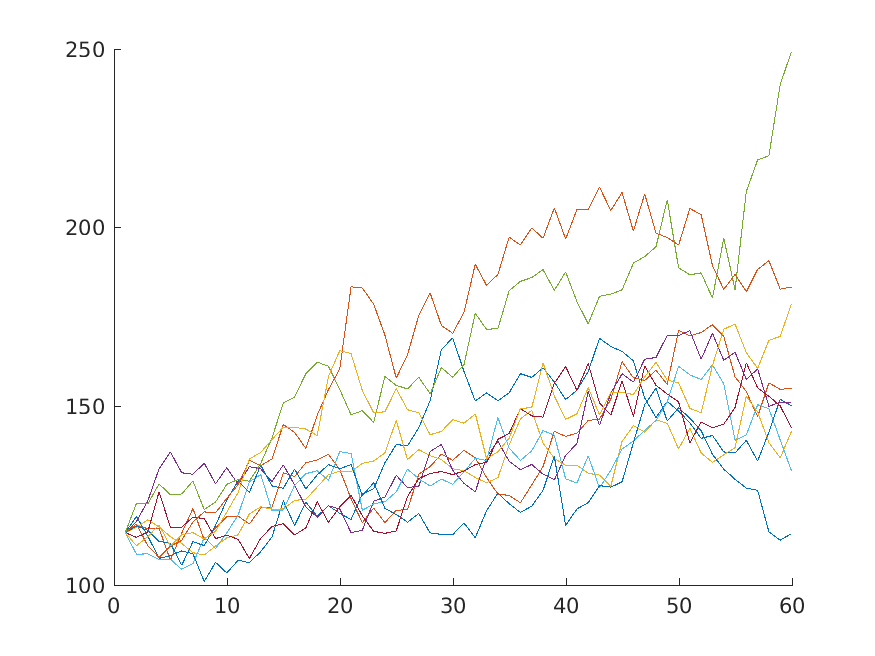
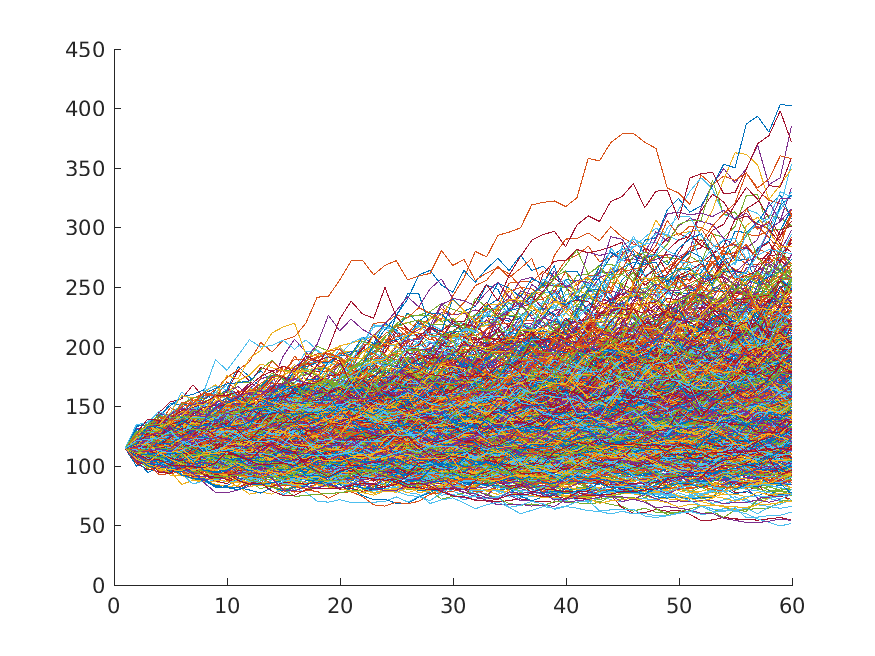
added last simulation functions for funds

diff --git a/1/test.m b/1/test.m
@@ -1,19 +1,79 @@
 % functies testen
 
-% overschrijven van beleggersrekening naar ( beurgenoteerd fonds | investering | pensioenspaarfonds )
+close all
+format bank
 
-% op de eerste dag van elk kwartaal geld storten op de beleggersrekening
-%   1e kwartaal: 01/01 - 31/03
-... 2e kwartaal: 01/04 - 30/06
-... 3e kwartaal: 01/07 - 30/09
-... 4e kwartaal: 01/10 - 31/12
-% binnen een jaar elk kwartaal hetzelfde bedrag
-% elk jaar verhoging van 2%
+investedCapital = SN_investedCapital(1000, 40);
 
-%SN_investedCapital(1000, 1)
-%SN_investedCapital(1000, 2)
-%SN_investedCapital(1000, 3)
-%SN_investedCapital(1000, 4)
-%SN_investedCapital(1000, 5)
+[~, ~] = SN_simulateSaving(1000, 0.01, 4);
+[~, ~] = SN_simulateSaving(1000, 0.01, 5);
+[~, ~] = SN_simulateSaving(1000, 0.01, 12);
+[path, yield] = SN_simulateSaving(1000, 0.01, 40);
 
-[path deposited yield] = SN_simulateSaving(1000, 0.01, 5)
+load('Funds.mat')
+[mu, sigma] = SN_estimateParameters(S(:,1));
+
+fig1 = figure(1); % quarterly path
+title('SN\_simulateQuarterlyPath(38.2919, 0.0062281, 0.0436201, 40)')
+
+fig2 = figure(2); % fund investment path
+title('SN\_simulateFundInvestingPath(1000, pricePath, 40)')
+
+fig3 = figure(3); % pension fund investment path
+title('SN\_simulatePensionFundInvesting(1000, pricePath, 40)')
+
+yields1 = zeros(25, 1);
+yields2 = zeros(25, 1);
+
+for i = 1:25
+    set(0, 'CurrentFigure', fig1)
+    hold on;
+    pricePath = SN_simulateQuarterlyPath(S(1, 1), mu, sigma, 40);
+    plot(pricePath);
+    
+    set(0, 'CurrentFigure', fig2)
+    hold on;
+    [path, yield] = SN_simulateFundInvestingPath(1000, pricePath, 40);
+    yields1(i) = yield;
+    plot(path);
+    
+    set(0, 'CurrentFigure', fig3)
+    hold on;
+    [path, yield] = SN_simulatePensionFundInvestingPath(1000, pricePath, 40);
+    yields2(i) = yield;
+    plot(path);
+end
+
+set(0, 'CurrentFigure', fig1)
+refline(0, S(1, 1));
+set(0, 'CurrentFigure', fig2)
+refline(0, investedCapital);
+set(0, 'CurrentFigure', fig3)
+refline(0, investedCapital);
+saveas(fig1, 'SN_simulateQuarterlyPath.png');
+saveas(fig2, 'SN_simulateFundInvestingPath.png');
+saveas(fig2, 'SN_simulatePensionFundInvestingPath.png');
+
+'VTI Fund Investing';
+for i = 20:20:160
+    %yields = SN_simulateFundInvesting(1000, i, S(:,1), 20);
+    [mean(yields) min(yields) max(yields)];
+end
+
+'BNP Fund Investing';
+for i = 20:20:160
+    %yields = SN_simulateFundInvesting(1000, i, S(:,2), 20);
+    [mean(yields) min(yields) max(yields)];
+end
+
+'VTI Pension Investing';
+for i = 20:20:160
+    yields = SN_simulatePensionFundInvesting(1000, i, S(:,1), 20);
+    [mean(yields) min(yields) max(yields)]
+end
+
+'BNP Pension Investing';
+for i = 20:20:160
+    yields = SN_simulatePensionFundInvesting(1000, i, S(:,2), 20);
+    [mean(yields) min(yields) max(yields)]
+end

diff --git a/1/SN_simulateFundInvestingPath.m b/1/SN_simulateFundInvestingPath.m
@@ -1,7 +1,39 @@
 function [ path, yield ] = SN_simulateFundInvestingPath( budget, pricePath, quartals)
-%UNTITLED4 Summary of this function goes here
-%   Detailed explanation goes here
+% Simulate the path of a distribution fund
+% path = "de totale nettoinventariswaarde van alle fractionele aandelen"
+% during main calculation, path = amount of shares
+% after main calculation, path = total net worth of shares at each quartal
+    
+    investedCapital = SN_investedCapital(budget, quartals);
+    
+    transactionCosts = 10;     % 10 euros
+    stockMarketTax = 0.0027;   % 0.27%
+    dividendYield = 0.0195;    % 1.95%
+    dividendTax = (1-0.15) * (1-0.30); % 15% bronbelasting & 30% roerende voorheffing
+    dividendYieldNet = dividendYield * dividendTax;   % 1.16%
+    quarterlyDividentYieldNet = dividendYieldNet / 4; % 0.29%
+    
+    path = (budget-transactionCosts) * (1-stockMarketTax) / pricePath(1);
+     
+    for q = 2:quartals
+        % each quartal, receive dividents on last quartal
+        dividend = pricePath(q-1) * quarterlyDividentYieldNet; 
+        
+        % calculate net budget to buy shares
+        budgetNet = (budget-transactionCosts) * (1-stockMarketTax);
+        
+        % buy new shares with net budget and dividend ("Dit ganse bedrag wordt dan
+        % onmiddellijk opnieuw geinvesteerd in VTI-aandelen.")
+        path(q) = path(q-1) + (dividend + budgetNet) / pricePath(q);
+        
+        % budget increases with 2% each year
+        if mod(q, 4) == 0
+            budget = budget * 1.02;
+        end
+    end
 
+    path = path .* pricePath; % convert shares into the money they are worth
+    yield = (path(end) - investedCapital) / investedCapital;
 
 end
 

diff --git a/1/SN_simulateSaving.m b/1/SN_simulateSaving.m
@@ -1,25 +1,27 @@
 function [ path, yield ] = SN_simulateSaving(budget, rate, quartals)
-%UNTITLED2 Summary of this function goes here
-%   Detailed explanation goes here
+% Simulates the path of a savings account with given start budget and interest rate after a given amount of quartals
 
+    investedCapital = SN_investedCapital(budget, quartals);
     path = budget;
-    deposited = budget;
+    %deposited = budget;
     tax = 0.15;
     
-    for i = 2:quartals
-        path(i) = path(i-1) + budget;
-        deposited(i) = budget;
+    for q = 2:quartals
+        path(q) = path(q-1) + budget;
+        %deposited(q) = budget;
         
-        if i > 4
-            path(i) = path(i) + (deposited(i-4)*rate);
+        if q > 4
+            %path(i) = path(i) + (deposited(i-4)*rate);
+            path(q) = path(q) + (path(q-4)*rate);
         end
         
-        if mod(i, 4) == 0
+        if mod(q, 4) == 0
             budget = budget * 1.02;
         end
     end
 
-    yield = (path(end) - sum(deposited)) / sum(deposited);
+    %yield = (path(end) - sum(deposited)) / sum(deposited);
+    yield = (path(end) - investedCapital) / investedCapital;
     
 end
 

diff --git a/1/SN_simulatePensionFundInvesting.m b/1/SN_simulatePensionFundInvesting.m
@@ -1,7 +1,17 @@
 function [ yields ] = SN_simulatePensionFundInvesting(budget, quartals, historicalPrice, N)
-%UNTITLED7 Summary of this function goes here
-%   Detailed explanation goes here
+% Monte Carlo simulation of periodical investments in a pension fund  
 
-
+    % estimate parameters of evolution of fund worth
+    [mu, sigma] = SN_estimateParameters(historicalPrice);
+    yields = zeros(N, 1);
+    
+    for q = 1:N
+        % simulate path for worth of fund
+        pricePath = SN_simulateQuarterlyPath(historicalPrice(end), mu, sigma, quartals);
+        
+        % simulate yield of investing in the fund
+        [~, yield] = SN_simulatePensionFundInvestingPath(budget, pricePath, quartals);
+        
+        yields(q) = yield;
+    end
 end
-

diff --git a/1/SN_simulateFundInvesting.m b/1/SN_simulateFundInvesting.m
@@ -1,7 +1,18 @@
 function [ yields ] = SN_simulateFundInvesting(budget, quartals, historicalPrice, N)
-%UNTITLED5 Summary of this function goes here
-%   Detailed explanation goes here
+% Monte Carlo simulation of periodical investments in a fund  
 
-
+    % estimate parameters of evolution of fund worth
+    [mu, sigma] = SN_estimateParameters(historicalPrice);
+    yields = zeros(N, 1);
+    
+    for q = 1:N
+        % simulate path for worth of fund
+        pricePath = SN_simulateQuarterlyPath(historicalPrice(end), mu, sigma, quartals);
+        
+        % simulate yield of investing in the fund
+        [~, yield] = SN_simulateFundInvestingPath(budget, pricePath, quartals);
+        
+        yields(q) = yield;
+    end
 end
 

diff --git a/1/ex4.m b/1/ex4.m
@@ -7,13 +7,13 @@ load('Funds.mat')
 length = 60; % 60 months
 initialPrice = 114.55; % taken from http://www.morningstar.com/stocks/ARCX/VTI/quote.html
 
-fig = figure
-hold on
+fig = figure;
+hold on;
 for i = 1:10
     path = SN_simulatePath(initialPrice, mu, sigma, length);
-    plot(path)
+    plot(path);
 end
-hold off
-saveas(fig,  'ex5.png')
+hold off;
+saveas(fig,  'ex5.png');
 
 clear

diff --git a/1/SN_estimateParameters.m b/1/SN_estimateParameters.m
@@ -1,7 +1,7 @@
 function [ mu, sigma ] = SN_estimateParameters( s )
-%SN_estimateParameters estimates parameters of log-yields of given price evolution vector
+% estimates parameters of log-yields of given price evolution vector
 
-    x = SN_logYields(s);
+    x = logYields(s);
                     
     sigma = std(x); 
     % de standaardafwijking van de log-rendementen is een 

diff --git a/1/SN_simulateQuarterlyPath.m b/1/SN_simulateQuarterlyPath.m
@@ -1,7 +1,9 @@
 function [ path ] = SN_simulateQuarterlyPath(price, mu, sigma, quartals)
-%UNTITLED3 Summary of this function goes here
-%   Detailed explanation goes here
-
-
+% Simulate the path of the worth of a fund for a given amount of quartals
+    path = price;
+    
+    for i = 2:quartals
+        path(i) = brownianMove(path(i-1), mu, sigma, 3);
+    end
 end
 

diff --git a/1/SN_simulatePath.m b/1/SN_simulatePath.m
@@ -1,8 +1,8 @@
 function [path] = SN_simulatePath(initialPrice, mu, sigma, months)
-%SN_SIMULATEPATH Simulate a Brownian motion
+% Simulate a Brownian motion
 
     path = initialPrice;
     for t = 2:months
-        path(t) = path(t-1) * exp(mu - sigma * (0.5*sigma + normrnd(0, 1)));
+        path(t) = brownianMove(path(t-1), mu, sigma, 1);
     end
 end

diff --git a/1/brownianMove.m b/1/brownianMove.m
@@ -1,0 +1,10 @@
+function [ next_price ] = brownianMove( current_price, mu, sigma, t )
+% Simulate the brownian movement for t months
+
+    if nargin < 4
+        t = 1;
+    end
+                             
+    next_price = current_price * exp((mu - 0.5*sigma^2)*t + sigma*sqrt(t)*normrnd(0,1));
+end
+

diff --git a/1/ex5.m b/1/ex5.m
@@ -3,7 +3,7 @@
 close all
 load('Funds.mat')
 
-[f1, x1] = ecdf(SN_logYields(S(:, 1)));
+[f1, x1] = ecdf(logYields(S(:, 1)));
 
 [mu, sigma] = SN_estimateParameters(S(:, 1));
 [f2, x2] = ecdf(normrnd(mu - 0.5 * sigma^2, sigma^2, length(S(:, 1)), 1));

diff --git a/1/SN_investedCapital.m b/1/SN_investedCapital.m
@@ -1,5 +1,5 @@
 function [ capital ] = SN_investedCapital(budget, quartals)
-%UNTITLED calculates budget after given amount of quartals
+% calculates budget after given amount of quartals
     capital = 0;
     
     while quartals > 0
